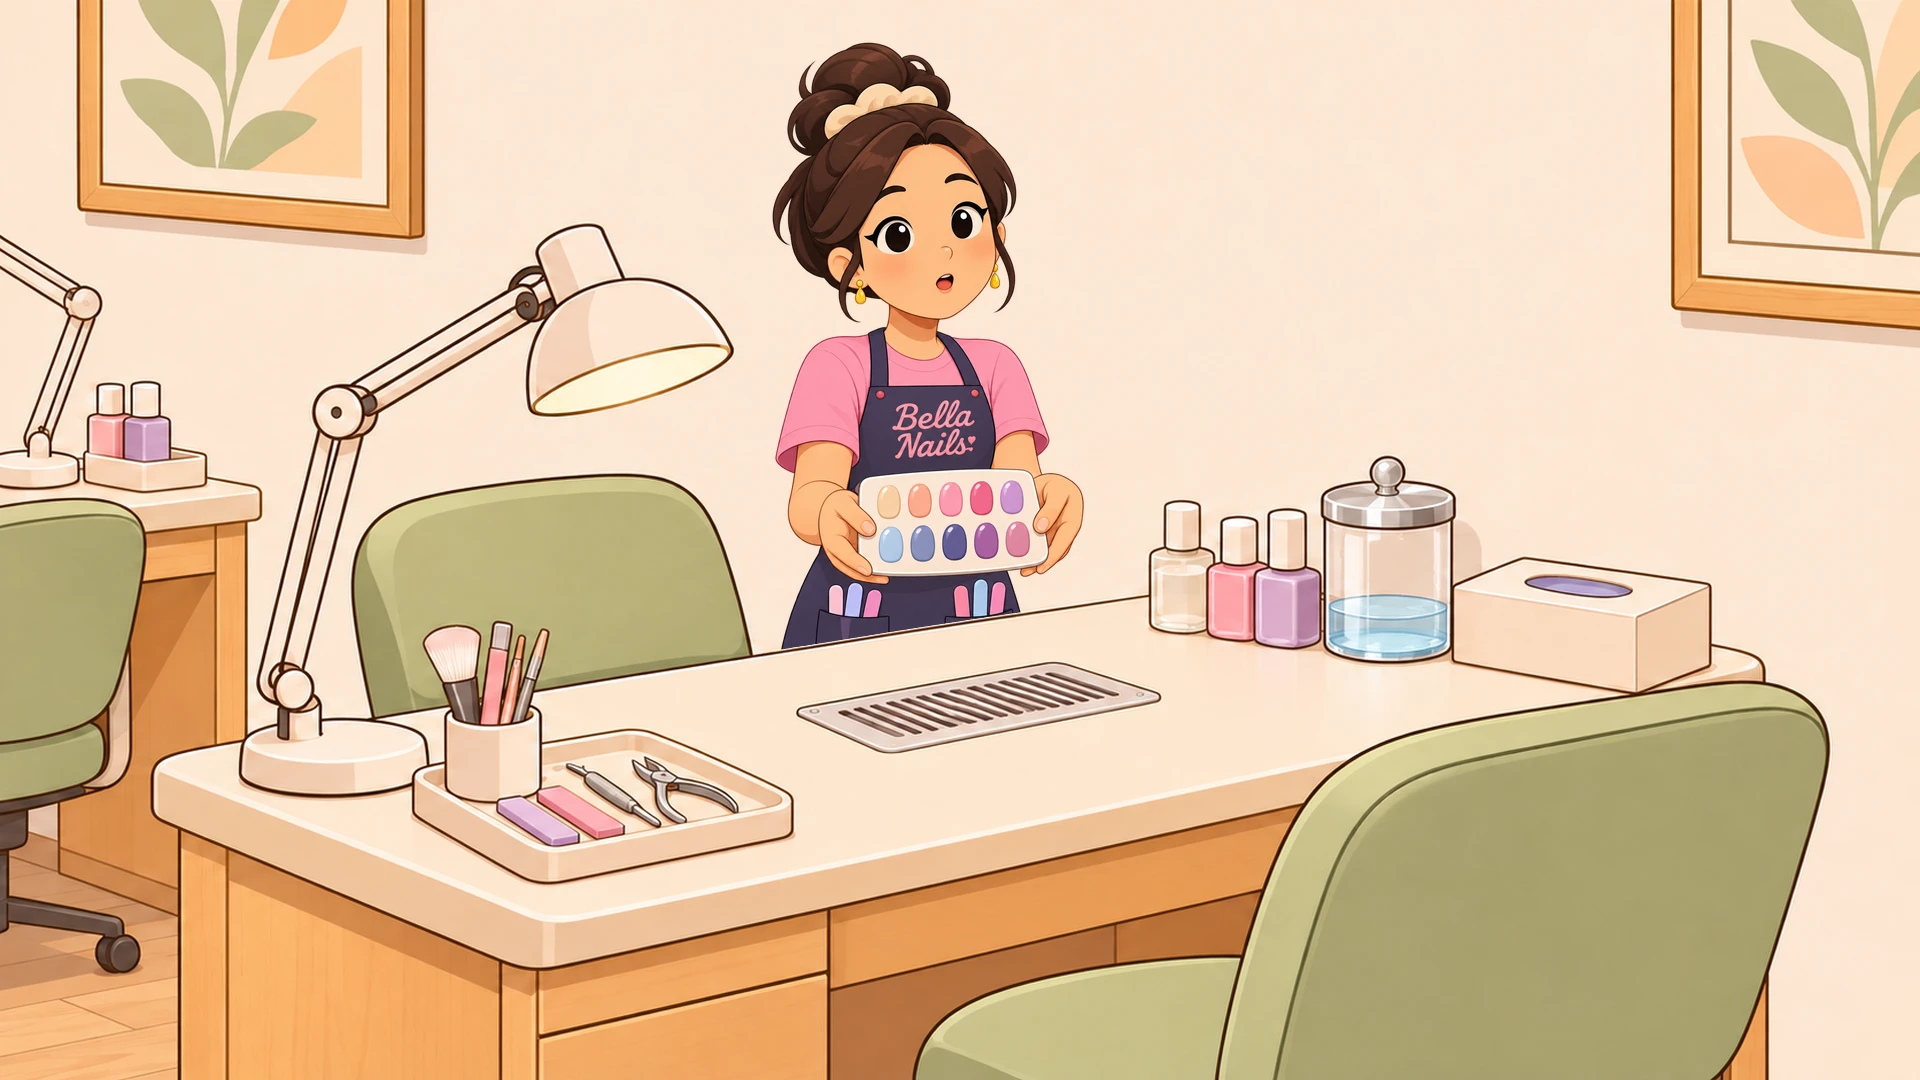
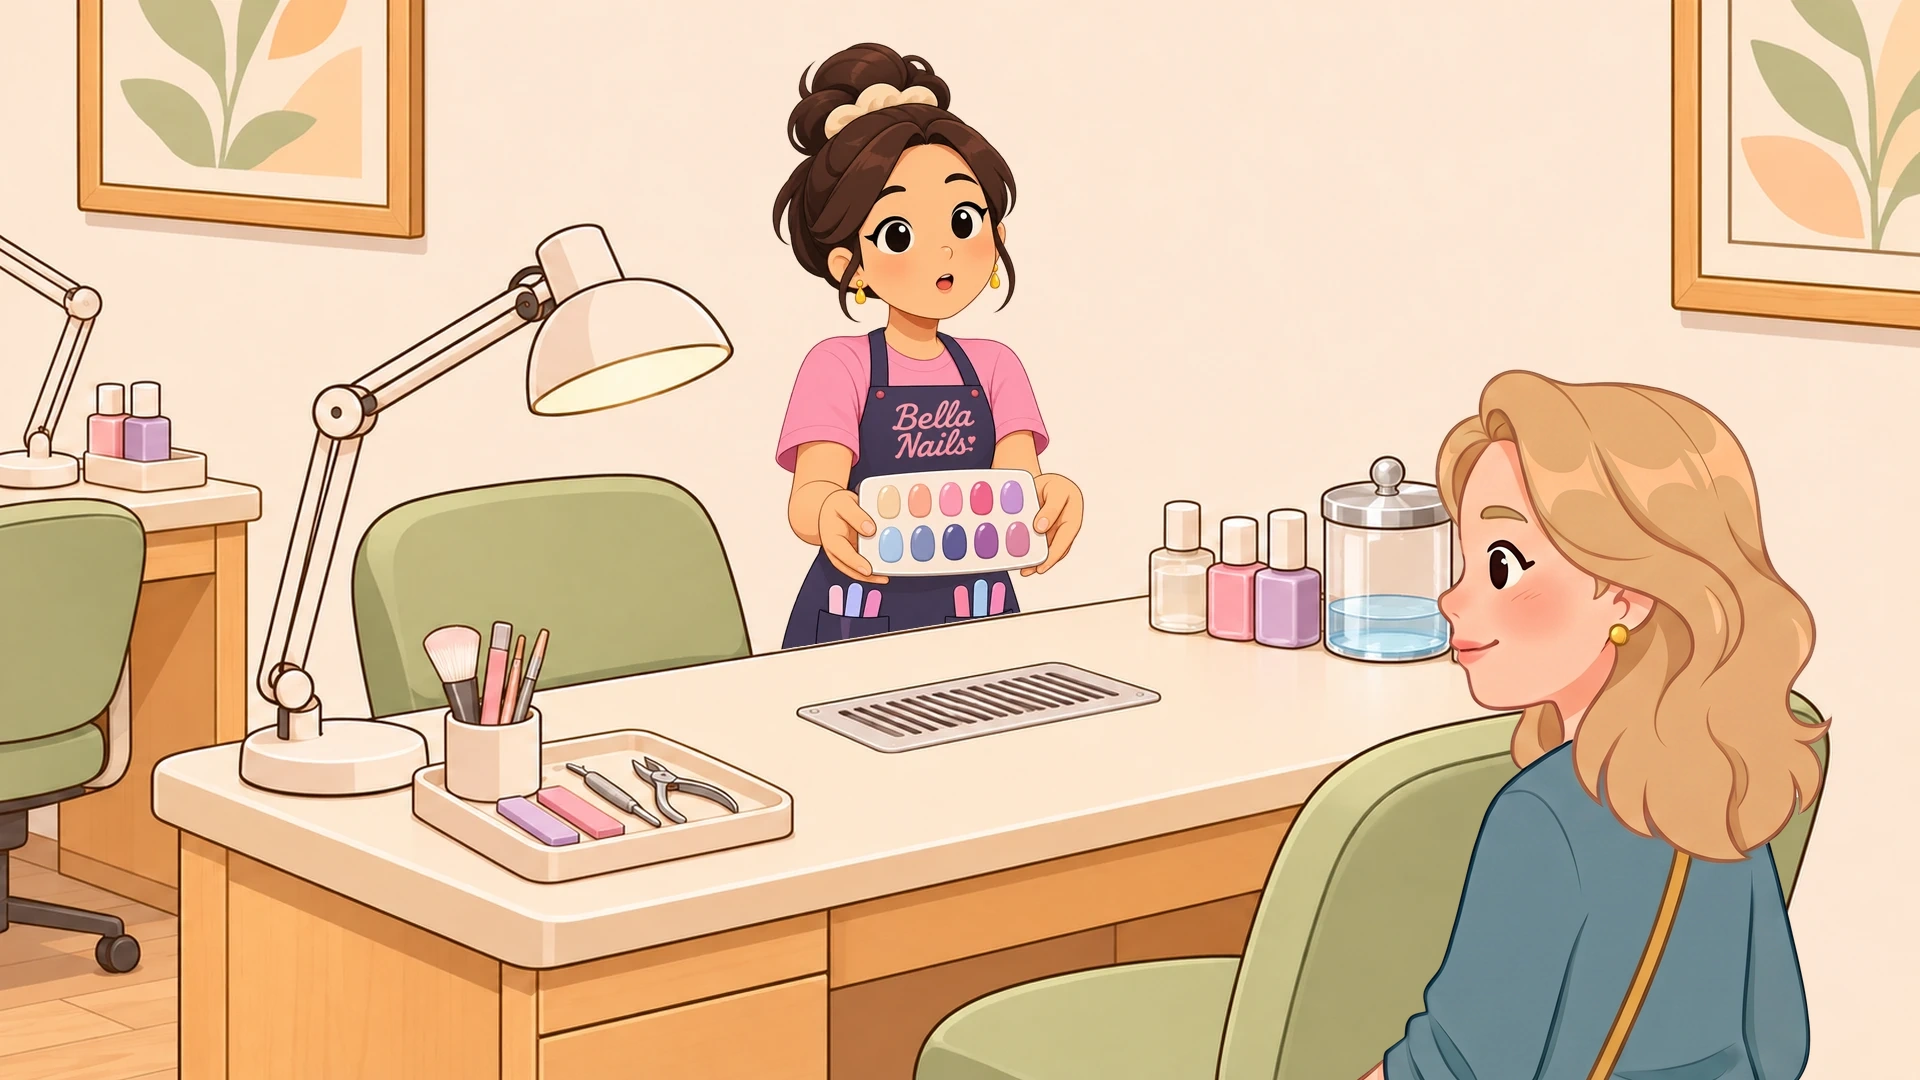
Deploy v014-DRAFT-2

Changed region(s): [[0.6875, 0.3361, 0.9688, 1.0]]

diff --git a/sw.js b/sw.js
@@ -1,6 +1,6 @@
 // Local static assets only. No telemetry, uploads or external requests.
 import {rangeResponse} from './range.mjs';
-const CACHE='nailtalk-APP_PROTO-v014-DRAFT-1';
+const CACHE='nailtalk-APP_PROTO-v014-DRAFT-2';
 const SHELL=['./','index.html','style.css','app.mjs','logic.mjs','player.mjs','storage.mjs','media.mjs','cinematic.mjs','lipsync.mjs','range.mjs','manifest.webmanifest','icons/icon-192.png','icons/icon-512.png'];
 const PACKS=['L-S01','L-S02','L-S03','L-S04','L-S05','L-S06','L-S07','L-S08'];
 const url=p=>new URL(p,self.registration.scope).href;
